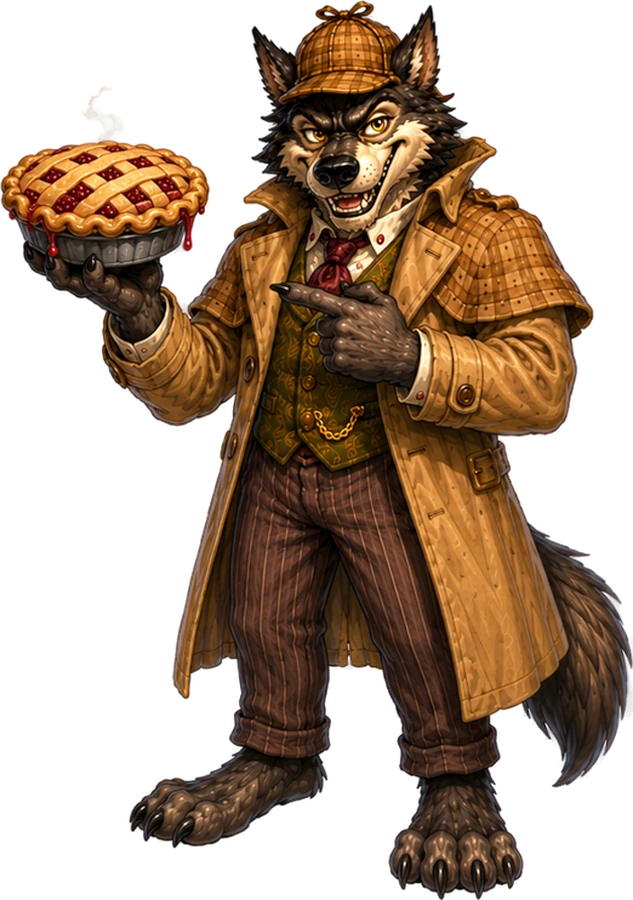
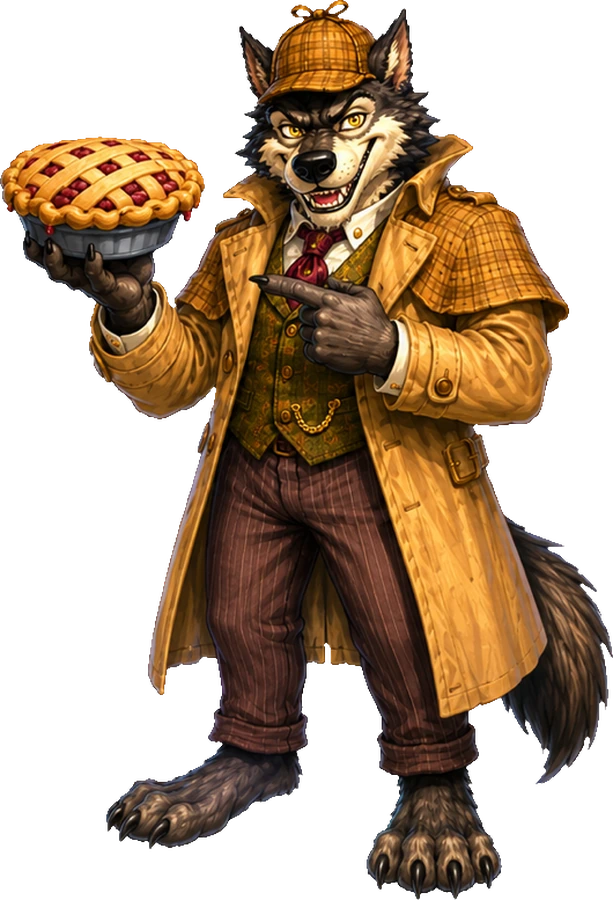
Wolf: detective (Sherlock) costume art + allergic — all costumes now consistent
De-fringe and replace the detective poses (arms/ponder/eye/pie/magnify/aha +
base) and add the new swollen wolf_sherlock_allergic, wired into his case arc so
his happy/angry/allergic reactions stay in the deerstalker costume. This was the
last of his costumes on the old muddy art — every wolf costume (base delivery,
tourist, bowler, top-hat, detective) is now clean and costume-consistent.

Claude-Session: https://claude.ai/code/session_01LXqynh2272HPNfiS49TDfc

diff --git a/docs/js/ui.js b/docs/js/ui.js
@@ -7,7 +7,7 @@
 
 const { R, newRound, applyTripleMatch, scoreMix, scoreResult, BALANCE } = ENGINE;
 const D = DATA;
-const BUILD = "v602"; // bump on each deploy; shown on the start screen to verify the live version
+const BUILD = "v603"; // bump on each deploy; shown on the start screen to verify the live version
 
 
 if (typeof ART !== "undefined" && ART.setVersion) ART.setVersion(BUILD); // cache-bust all art per build so updated images always refetch
@@ -317,7 +317,7 @@ const CHAR_OFFY = { fish: 9, bo_peep: 2, gingerbread: 5, gothel: 6, stepmother: 
 const CHAR_OFFX = {};
 // per-mood scale overrides ("<id>_<mood>") for the results portrait only, when one
 // pose frames differently than the rest (e.g. the sponge sword's tall allergic pose).
-const CHAR_MOOD_SCALE = { sword_allergic: 0.88, wolf_allergic: 0.82, wolf_tourist_allergic: 0.66, wolf_bowler_allergic: 0.95, wolf_tophat_allergic: 0.92 };   // wolf's puffed-up allergic poses are wide — shrink so they fit the frame
+const CHAR_MOOD_SCALE = { sword_allergic: 0.88, wolf_allergic: 0.82, wolf_tourist_allergic: 0.66, wolf_bowler_allergic: 0.95, wolf_tophat_allergic: 0.92, wolf_sherlock_allergic: 0.88 };   // wolf's puffed-up allergic poses are wide — shrink so they fit the frame
 const PEARL = '<span class="pearl-ic" aria-label="pearl"></span>';   // a glossy CSS pearl (nicer than any emoji)
 
 /* ═══════════════════════════════════════════════════════════════════════════
@@ -1162,7 +1162,7 @@ const WOLF_VISITS = [
       { fig: "wolf_sherlock_ponder", text: "Suspects? None. Leads? None. Motive? Extreme deliciousness. …I’ll require sustenance for the investigation. Something hearty. For clue-related reasons.", cta: "Case closed  ▸" },
     ],
     wish: "A detective’s ration, piping hot — purely to fuel my brilliant deductions, which are ongoing and unrelated to pie.",
-    outroFigWin: "wolf_sherlock_aha", outroFigLose: "wolf_sherlock_arms",
+    outroFigWin: "wolf_sherlock_aha", outroFigLose: "wolf_sherlock_arms", allergicFig: "wolf_sherlock_allergic",
     outroWin: "Aha! The case remains open, but I am no longer peckish. Elementary. Toodle-oo!" },
   { costume: "wolf_bowler", custArt: "wolf_bowler_plead", name: "“Baron von Nothungry”",
     intro: [

diff --git a/docs/index.html b/docs/index.html
@@ -9,10 +9,10 @@
 <meta name="apple-mobile-web-app-title" content="Wish Pop">
 <meta name="mobile-web-app-capable" content="yes">
 <title>Wish Pop: Bubble Shop</title>
-<link rel="manifest" href="manifest.webmanifest?v=602">
-<link rel="apple-touch-icon" href="apple-touch-icon.png?v=602">
-<link rel="icon" type="image/png" href="icon-192.png?v=602">
-<link rel="stylesheet" href="css/styles.css?v=602">
+<link rel="manifest" href="manifest.webmanifest?v=603">
+<link rel="apple-touch-icon" href="apple-touch-icon.png?v=603">
+<link rel="icon" type="image/png" href="icon-192.png?v=603">
+<link rel="stylesheet" href="css/styles.css?v=603">
 
 
 </head>
@@ -42,11 +42,11 @@
   <p class="muted">Wish Pop is played upright. Turn your phone back to keep making wishes come true!</p>
 </div>
 
-<script src="js/audio.js?v=602"></script>
-<script src="js/data.js?v=602"></script>
-<script src="js/engine.js?v=602"></script>
-<script src="js/art.js?v=602"></script>
-<script src="js/ui.js?v=602"></script>
+<script src="js/audio.js?v=603"></script>
+<script src="js/data.js?v=603"></script>
+<script src="js/engine.js?v=603"></script>
+<script src="js/art.js?v=603"></script>
+<script src="js/ui.js?v=603"></script>
 
 
 <script>
